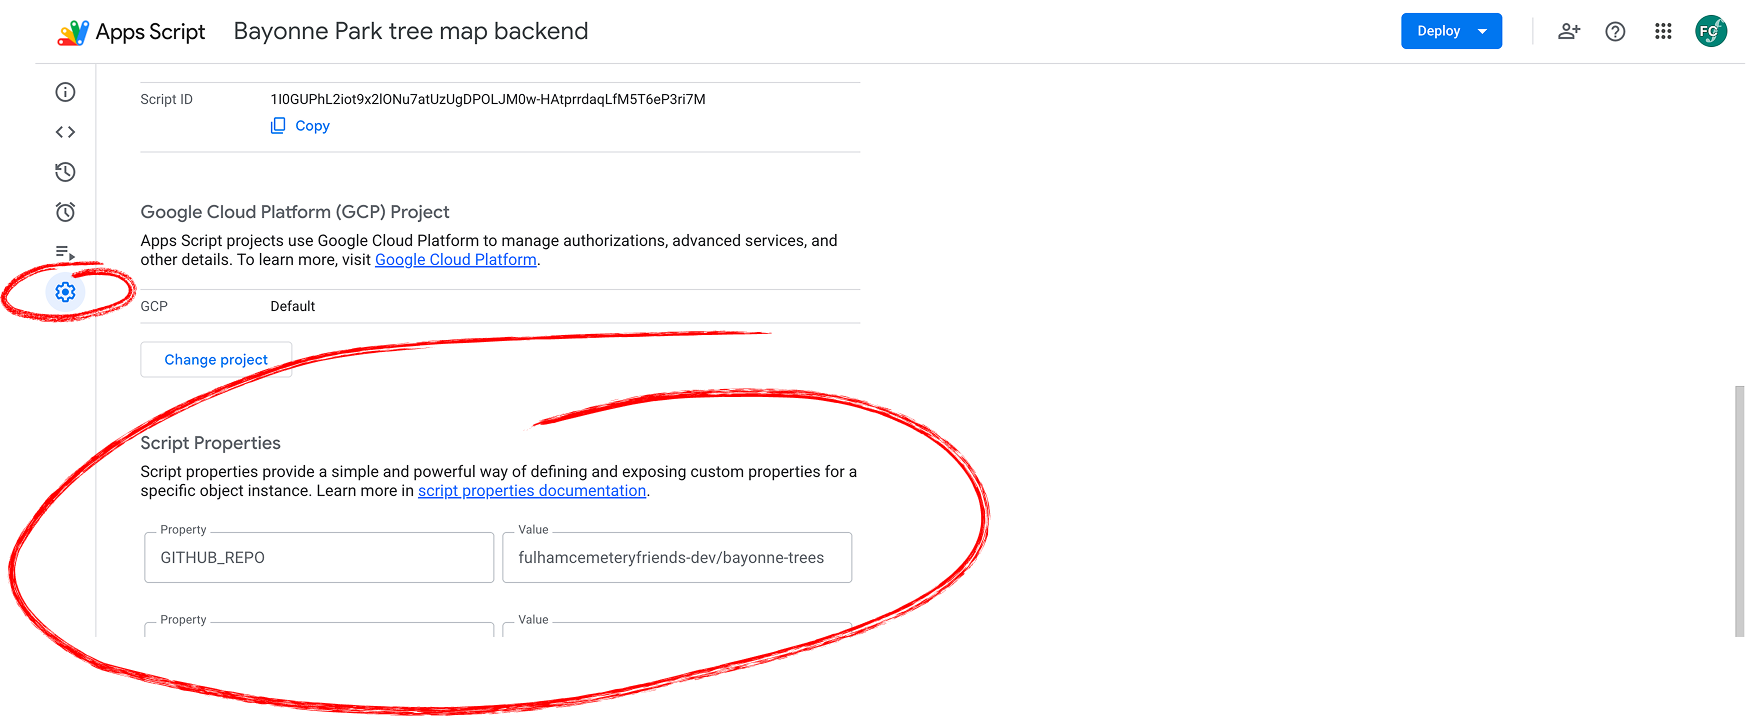
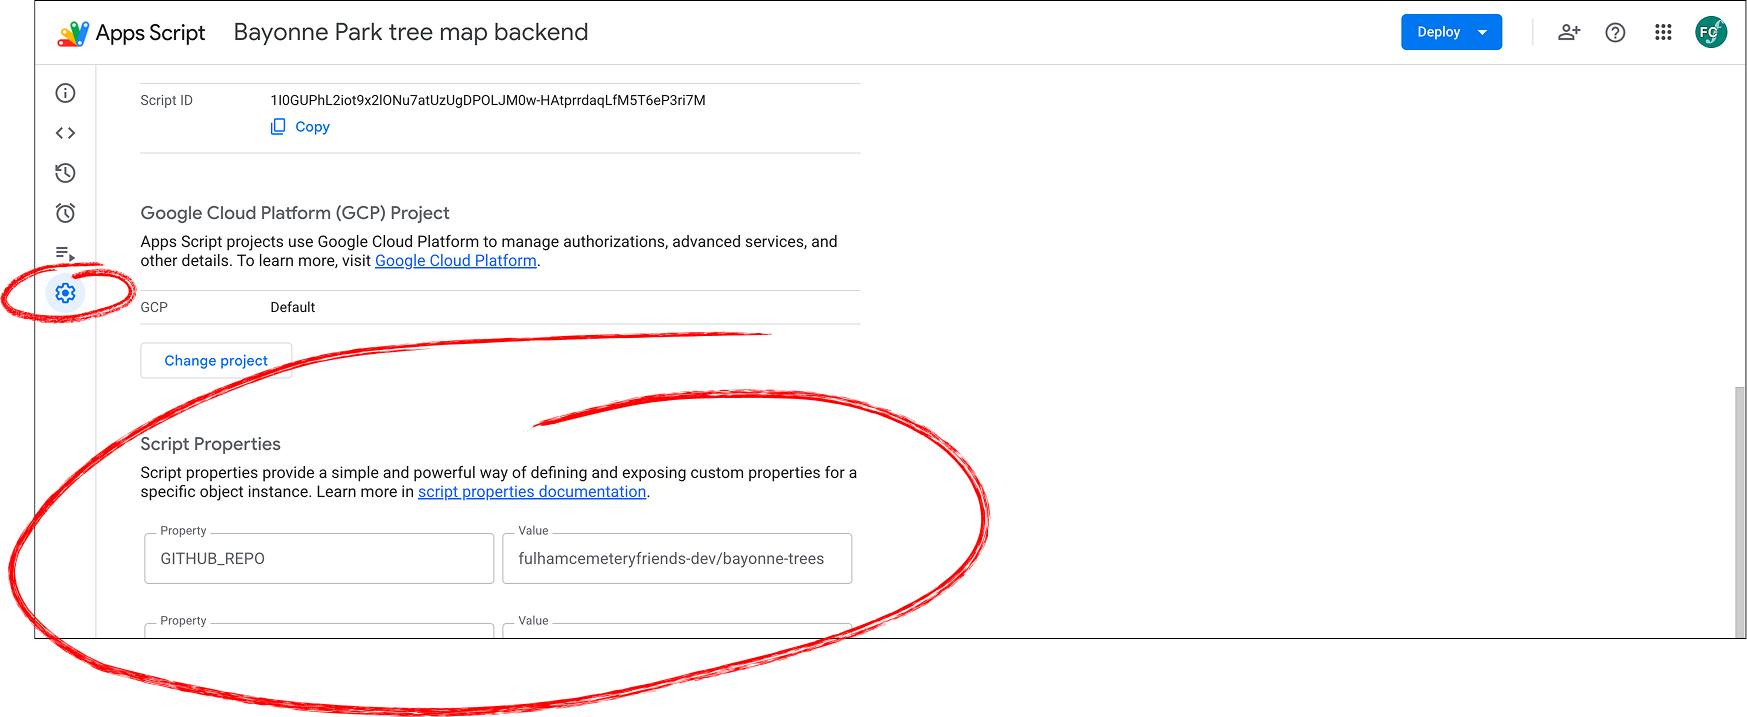
Update Apps Script setup doc and screenshots
Fix step numbering, add authorize screenshot, update script properties
screenshot.

diff --git a/docs/03-apps-script.md b/docs/03-apps-script.md
@@ -98,13 +98,14 @@ who can view the project.
 5. The first time, Google will ask you to authorise the script. Click
    **Authorize access**, choose your account, and click *Advanced → Go to
    (project name) (unsafe)* (this warning is normal for your own scripts).
-7. A *"Select what (your-name) can access"* screen appears listing the
+   <img src="screenshots/step-3-4-apps-script-authorize.png" align="right" width="300" alt="Google Authorize dialog" />
+6. A *"Select what (your-name) can access"* screen appears listing the
    permissions the script needs. Tick **Select all**, then click
    **Continue**, then **Allow** on the final summary.
-   <img src="screenshots/step-3-4-test-deployments.png" alt="Apps Script 'Test deployments' / Manage deployments dialog showing the Web app URL" width="300" align="right" />
-9. After deployment, copy the **Web app URL**. You'll paste this into
+7. After deployment, copy the **Web app URL**. You'll paste this into
    `config.js` in step 4.
    > ⚠️ Copy the **whole URL**, not just the deployment ID. 
+<img src="screenshots/step-3-4-test-deployments.png" alt="Apps Script 'Test deployments' / Manage deployments dialog showing the Web app URL" width="300" />
 
 ## 3.5 Sanity check
 